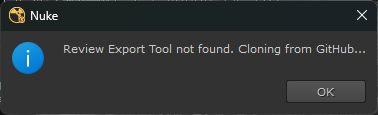
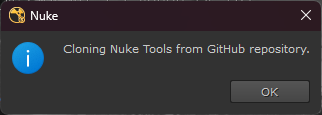
updating screenshots

diff --git a/review_export_tool/menu.py b/review_export_tool/menu.py
@@ -63,7 +63,7 @@ def setup_tools():
 def clone_base_repo():
     """Clones the main repo if missed."""
     try:
-        nuke.tprint(f"Cloning repo from: {GITHUB_URL}")
+        nuke.message(f"Cloning repo from: {GITHUB_URL}")
         subprocess.run(["git", "clone", GITHUB_URL, BASE_DIR], check=True)
     except Exception as e:
         nuke.message(f"Error cloning the repo:\n{e}")
